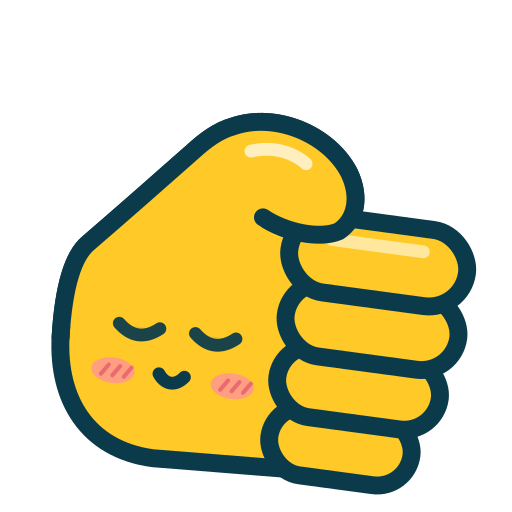
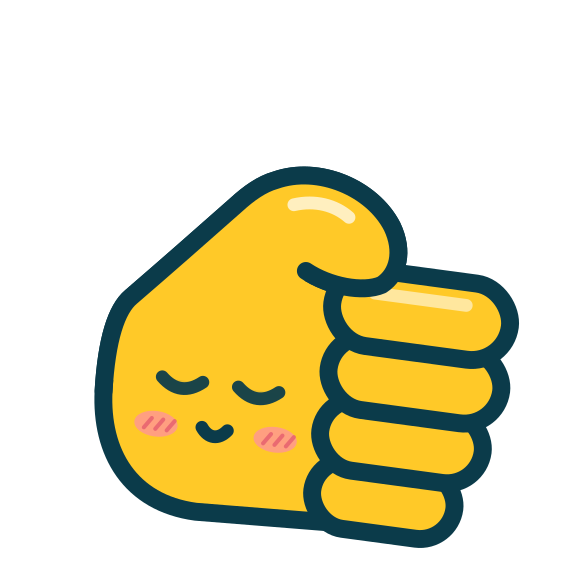
Wake-up animation pivots around the hand's bottom-left corner
Claude-Session: https://claude.ai/code/session_0192txW5esAvhvKpXPfL3D4A

Changed region(s): [[0.0938, 0.2188, 0.9375, 1.0]]

diff --git a/README.md b/README.md
@@ -30,14 +30,16 @@ The hand character on its own (not the logo), 512×512, transparent:
 
 ## animations/
 
-All animations are 30 fps, 512×512, transparent. Each comes as an animated PNG (APNG) plus numbered frames in `frames/png/` and `frames/svg/`. The hand is drawn at the same scale in every frame and matches the static poses above.
+All animations are 30 fps, transparent, and 512×512 unless noted. Each comes as an animated PNG (APNG) plus numbered frames in `frames/png/` and `frames/svg/`. The hand is drawn at the same scale in every frame and matches the static poses above.
 
 | Animation | File | Frames | Length |
 |---|---|---|---|
-| Wake up: resting → standard | `animations/wake/hand-wake.png` | 28 | 0.93 s, ends on standard |
+| Wake up: resting → standard | `animations/wake/hand-wake.png` | 28 | 0.93 s, ends on standard, 563×563 (see note) |
 | Blink once | `animations/blink/hand-blink-single.png` | 7 | 0.23 s |
 | Blink twice | `animations/blink/hand-blink-double.png` | 18 | 0.6 s |
 | Blink loop (pre-baked) | `animations/blink/hand-blink-loop.png` | 526 | 17.5 s, loops |
+
+The wake-up animation rotates the hand around its bottom-left corner (the wrist), so it needs a little more room: its frames are 563×563 instead of 512×512, at the same scale. Align it with the other assets by its top-left corner; its last frame then sits exactly on top of `hand-standard.png`. Its first frame is the resting pose turned around that corner, so it sits a little lower and further right than the standalone `hand-resting.png`.
 
 The blink clips start and end on the open-eyed standard pose, so they can be played on top of `hand-standard.png` at any moment.
 
